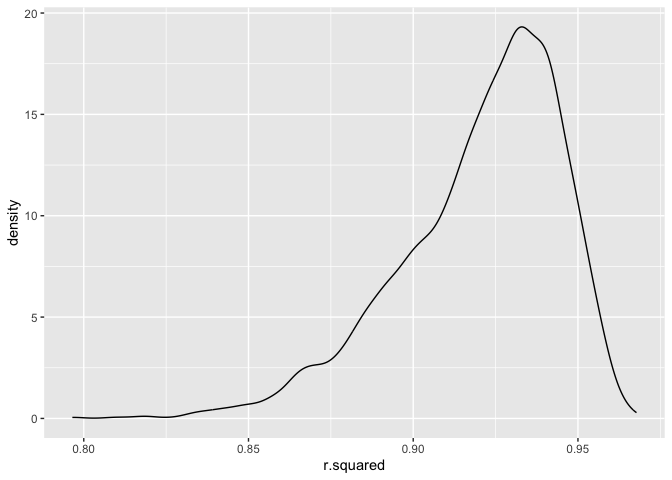
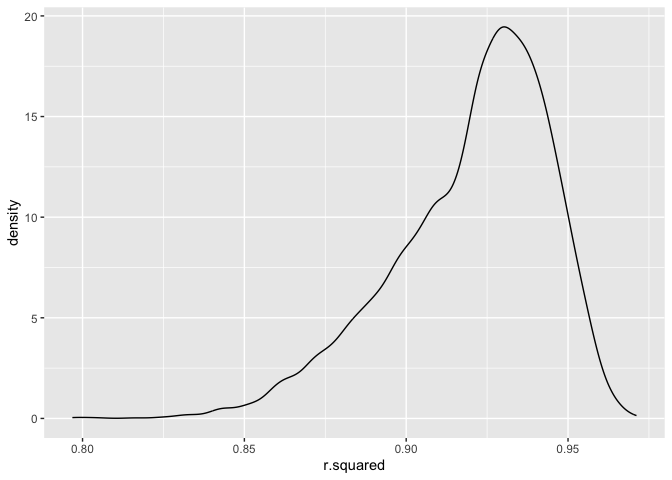
Wrapped up problem 1, few minor descriptive edits

diff --git a/p8105_jl5934_hw6.md b/p8105_jl5934_hw6.md
@@ -48,28 +48,11 @@ library(caret)
 
 # Problem 1
 
-Create a city_state variable (e.g. “Baltimore, MD”), and a binary
-variable indicating whether the homicide is solved. Omit cities Dallas,
-TX; Phoenix, AZ; and Kansas City, MO – these don’t report victim race.
-Also omit Tulsa, AL – this is a data entry mistake. For this problem,
-limit your analysis those for whom victim_race is white or black. Be
-sure that victim_age is numeric.
+For this problem we will utilize the Washington post data on homicides,
+to evaluate a generalized logistic regression model to predict resolved
+cases based on victim age, victim sex, and victim race.
 
-For the city of Baltimore, MD, use the glm function to fit a logistic
-regression with resolved vs unresolved as the outcome and victim age,
-sex and race as predictors. Save the output of glm as an R object; apply
-the broom::tidy to this object; and obtain the estimate and confidence
-interval of the adjusted odds ratio for solving homicides comparing male
-victims to female victims keeping all other variables fixed.
-
-Now run glm for each of the cities in your dataset, and extract the
-adjusted odds ratio (and CI) for solving homicides comparing male
-victims to female victims. Do this within a “tidy” pipeline, making use
-of purrr::map, list columns, and unnest as necessary to create a
-dataframe with estimated ORs and CIs for each city.
-
-Create a plot that shows the estimated ORs and CIs for each city.
-Organize cities according to estimated OR, and comment on the plot.
+First we import and clean the data for our purposes.
 
 ``` r
 WaPo.df <- read_csv("data/homicide-data.csv") %>%
@@ -96,15 +79,64 @@ WaPo.df <- read_csv("data/homicide-data.csv") %>%
     ## Caused by warning:
     ## ! NAs introduced by coercion
 
+Next we trial the model on solely Baltimore, MD.
+
 ``` r
 Balt_model = WaPo.df %>%
   filter(city_state == "Baltimore, MD") |>
   glm(resolved ~ victim_age + victim_sex + victim_race, data = _, family = binomial()) %>%
   broom::tidy() %>%
-  filter(term == "victim_sexMale") 
-  #mutate(OR = exp(estimate),
-        # upper_CI = )
+  filter(term == "victim_sexMale") %>%
+  mutate(OR = exp(estimate),
+         lower_CI = OR - 1.96*std.error,
+         upper_CI = OR + 1.96*std.error)
 ```
+
+Now we create a model that works for all the cities to output an OR of
+homcide being resolved based on victim sex of male vs female, and
+calculate the upper and lower confidence intervals.
+
+``` r
+cities = as.vector(unique(WaPo.df$city_state))
+
+OR_sex = function(x) {
+  
+  model <- WaPo.df %>%
+  filter(city_state == x) |>
+  glm(resolved ~ victim_age + victim_sex + victim_race, data = _, family = binomial()) %>%
+  broom::tidy() %>%
+  filter(term == "victim_sexMale") %>%
+  mutate(OR = exp(estimate),
+         lower_CI = OR - 1.96*std.error,
+         upper_CI = OR + 1.96*std.error)
+  
+  tibble(
+    city = x,
+    OR = model[["OR"]],
+    CI_low = model[["lower_CI"]],
+    CI_upper = model[["upper_CI"]]
+)
+  
+}
+
+WaPo_ORs = map(cities, OR_sex) %>%
+  bind_rows()
+```
+
+Lastly, we plot the the OR of each city, ordered by increasing OR, and
+error bars for the CI.
+
+``` r
+ggplot(WaPo_ORs, aes(x = fct_reorder(city, OR), y = OR)) +
+  geom_point(stat = "identity") +
+  geom_errorbar(aes(ymin = CI_low, ymax = CI_upper)) + 
+  theme(axis.text.x = element_text(angle = 45, size = 5, hjust = 1))
+```
+
+![](p8105_jl5934_hw6_files/figure-gfm/plot%20ORs%20and%20CIs%20by%20city-1.png)<!-- -->
+
+- We see that there is some range in CI, with smaller ranges in certain
+  cities like Chicago, IL and Detroit, MI.
 
 # Problem 2
 
@@ -227,7 +259,7 @@ log_betas %>%
   geom_density()
 ```
 
-    ## Warning: Removed 3676 rows containing non-finite values (`stat_density()`).
+    ## Warning: Removed 3663 rows containing non-finite values (`stat_density()`).
 
 ![](p8105_jl5934_hw6_files/figure-gfm/bootstrapping%20and%20isolating%20output%20of%20model-2.png)<!-- -->
 
@@ -320,7 +352,9 @@ birthweight.df %>%
 ![](p8105_jl5934_hw6_files/figure-gfm/my%20birthweight%20model-1.png)<!-- -->
 
 - Here we demonstrate a plot of the model’s predicted values for
-  birthweight plotted against the residual values from my model.
+  birthweight plotted against the residual values from my model. There
+  is wide variability to the residuals, with most from -1000 to +1000,
+  and most of the predicted values being \<3500 for birthweight.
 
 Next we will construct the models described by the homework.
 
@@ -357,11 +391,18 @@ birthweight.df %>%
 ![](p8105_jl5934_hw6_files/figure-gfm/main%20and%20alternate%20models%20for%20birthweights-2.png)<!-- -->
 
 - Here we demonstrate two plots of the model’s predicted values for
-  birthweight plotted against the residual values from the model. The
-  first is for the main model using main effects of birth length and
-  gestatational age. The second is the alternative including the
-  interactions and main effects of head circumference, length at birth,
-  and sex of the baby.
+  birthweight plotted against the residual values from the model.
+
+  - The first is for the main model using main effects of birth length
+    and gestational age. Compared to my model the residuals are a bit
+    tighter but the spread is still from -1000 to +1000, although there
+    is a greater range of predicted birthweights.
+
+  - The second is the alternative including the interactions and main
+    effects of head circumference, length at birth, and sex of the baby.
+    Compared to the prior two models, the residual range is a bit
+    tighter now primarily focused in -500 to +500, with still a wide
+    range of predicted values similiar to the main model.
 
 Next we will set up cross validation of 100 splits. This will include
 variables for the each of the three above models, mapping the models
